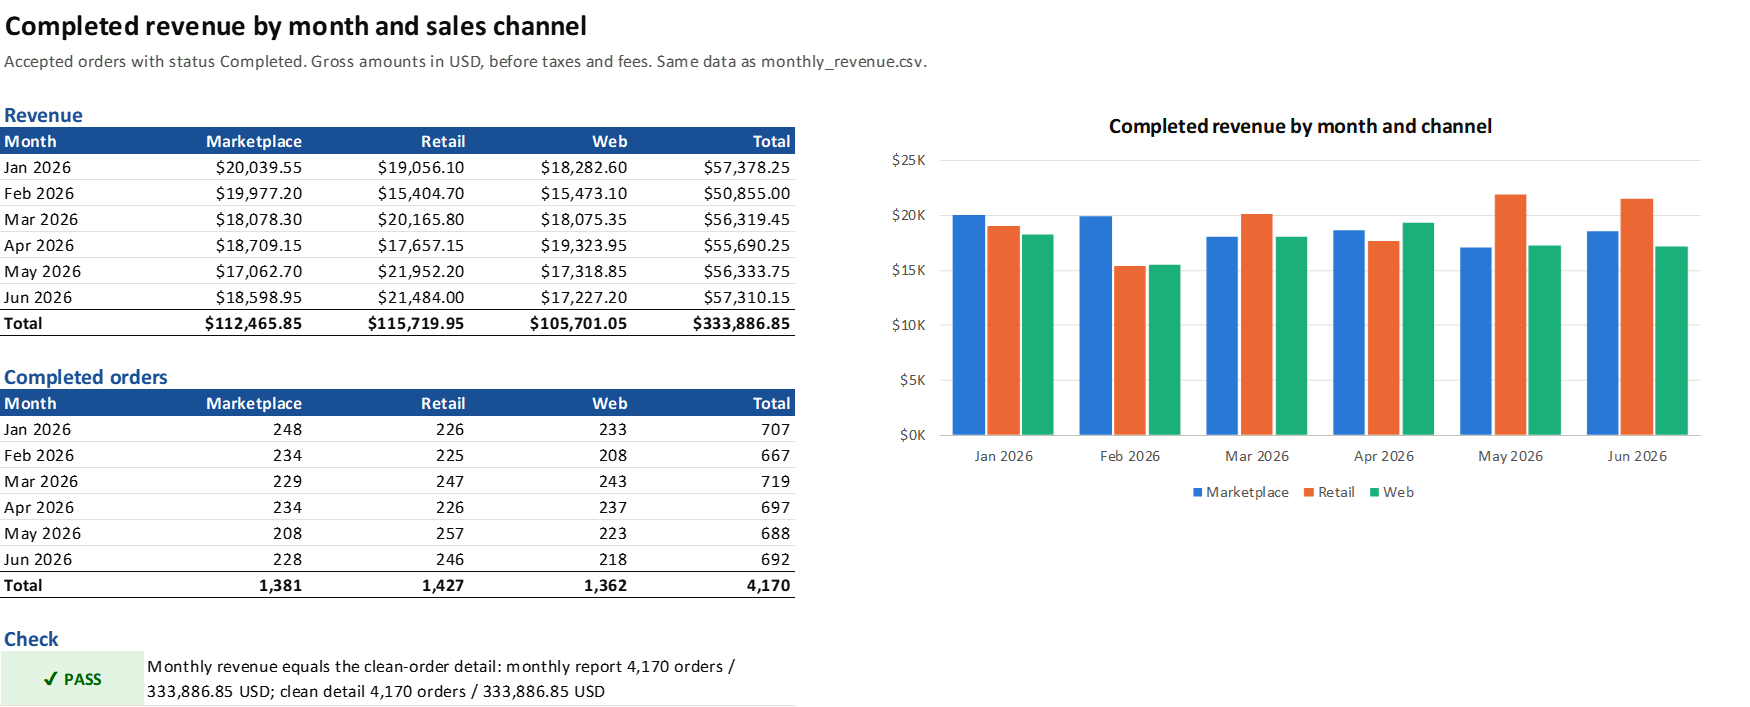
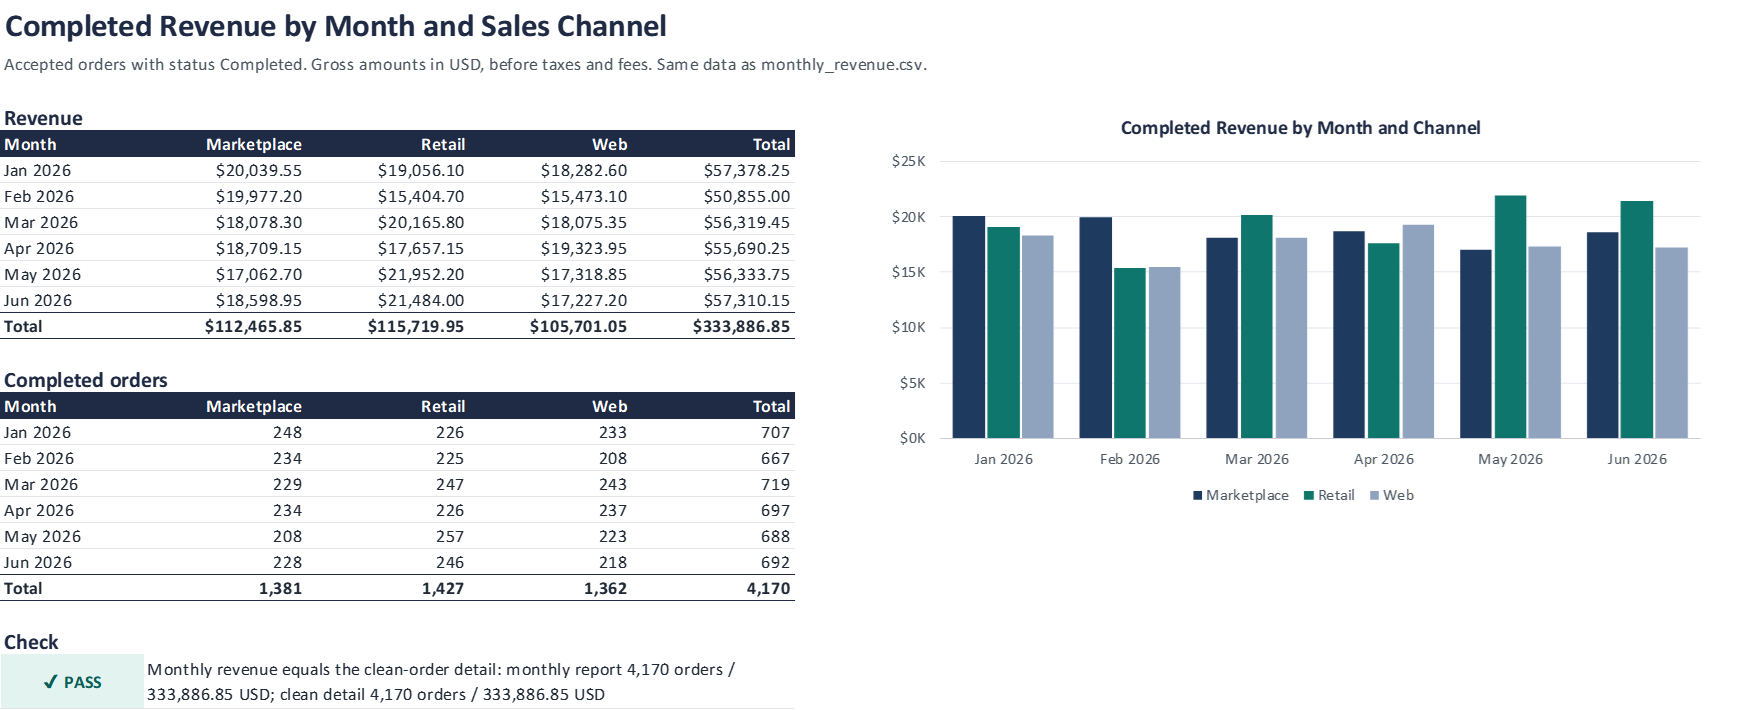
docs(assets): recapture the workbook in Excel after the dashboard redesign
The capture script now stops if Excel repairs a file, crops the dashboard
summary above the charts, and adds the Reconciliation Audit sheet. The README
shows the full dashboard first and describes the new sheet structure.

diff --git a/README.md b/README.md
@@ -4,7 +4,7 @@ Messy order exports from several sales channels in; clean, de-duplicated, reconc
 
 > **Status:** pipeline, Excel report, tests and benchmarks complete. **Independent portfolio project with synthetic data:** no real client, customers or orders are involved, and no result here describes a real business.
 
-![Excel dashboard: PASS banner, 5,020 source rows, 4,905 accepted orders, 90 rejected rows, 15 duplicates ignored, 10 quarantined rows, 4,170 completed orders, $333,886.85 completed revenue, and the six reconciliation checks](assets/dashboard-summary.png)
+![Executive dashboard generated by the pipeline and rendered by Excel: KPI cards for 5,020 source records, 4,905 accepted orders, $333,886.85 completed revenue and reconciliation status PASS; data-quality indicators for 90 rejected rows, 15 duplicates ignored and 10 quarantined rows; three reconciliation-check lines; and charts of monthly completed revenue, revenue by sales channel and data-quality issues](assets/dashboard.png)
 
 | Demo run | Day 1: three exports | Day 2: plus a late export and a reviewer's decisions |
 |---|---:|---:|
@@ -51,9 +51,9 @@ Design and decisions: [architecture](docs/architecture.md), [feasibility](docs/f
 - **Duplicate detection and reconciliation:** exact and conflicting duplicates across files and batches, row-level accounting, totals that tie back to the detail.
 - **Business rules as configuration:** statuses, channels, date formats, tolerances and duplicate policy in a reviewed file, with clear errors for mistakes.
 - **Review and approval workflow:** suggested corrections in a spreadsheet, applied only with a reviewer's decision, with a complete audit trail.
-- **Client-ready Excel reporting:** an 8-sheet workbook with a dashboard, charts, filters and highlighted exceptions, regenerated from the data on every run.
+- **Client-ready Excel reporting:** an 8-sheet workbook with a one-screen executive dashboard (KPI cards and native Excel charts), a separate reconciliation audit, and filterable detail sheets with highlighted exceptions, regenerated from the data on every run.
 - **Large and recurring files:** streaming input and on-disk staging, measured up to 1,004,621 rows; incremental runs for daily or monthly exports.
-- **Verifiable work:** 202 automated tests, CI, and benchmarks whose every figure comes from a committed result.
+- **Verifiable work:** 206 automated tests, CI, and benchmarks whose every figure comes from a committed result.
 
 ## 4. Evidence and measurable results
 
@@ -84,11 +84,11 @@ Six checks test this from independent sides rather than re-adding the counters t
 
 ### Tests
 
-`python -m pytest -q` runs 202 unit and integration tests in temporary folders. They cover normalization and validation rules, duplicates and conflicts across files and batches, malformed and wrongly encoded input, invalid configuration, incremental reruns, modified and removed files, reference-data and rule changes, correction approval, rejection and stale decisions, workbook contents and determinism, and row-level traceability. Tests compare the bytes of every business output for a full rebuild, a sequence of incremental runs and batch sizes 1, 7 and 1,000. CI runs them on Python 3.11 and 3.13 ([workflow](.github/workflows/ci.yml)).
+`python -m pytest -q` runs 206 unit and integration tests in temporary folders. They cover normalization and validation rules, duplicates and conflicts across files and batches, malformed and wrongly encoded input, invalid configuration, incremental reruns, modified and removed files, reference-data and rule changes, correction approval, rejection and stale decisions, workbook contents and determinism, and row-level traceability. Tests compare the bytes of every business output for a full rebuild, a sequence of incremental runs and batch sizes 1, 7 and 1,000. CI runs them on Python 3.11 and 3.13 ([workflow](.github/workflows/ci.yml)).
 
 ### Benchmarks
 
-Measured on one laptop (Windows 11, Intel Core i7-1370P, 32 GB, Python 3.15.2), each run in a fresh process, median of 5 runs (3 for 1M). Every run's results were checked against the generator's expected counts and revenue, and every scenario produced business outputs byte-identical to the full run. All figures: [benchmarks/results/](benchmarks/results/README.md).
+Measured on one laptop (Windows 11, Intel Core i7-1370P, 32 GB, Python 3.15.2), at commit `cc46d1f` (before the dashboard redesign, which changed only the Excel report and was not re-measured), each run in a fresh process, median of 5 runs (3 for 1M). Every run's results were checked against the generator's expected counts and revenue, and every scenario produced business outputs byte-identical to the full run. All figures: [benchmarks/results/](benchmarks/results/README.md).
 
 | Rows | Files | Full run | Rerun, nothing changed | Rerun, one file added | Peak memory | Original script |
 |---:|---:|---:|---:|---:|---:|---|
@@ -117,7 +117,7 @@ python -m pip install -r requirements-dev.txt -e .
 python -m pytest -q
 ```
 
-The test run ends with `202 passed` (on Linux `200 passed, 2 skipped`: two tests need Windows file locking or a German locale). Then run the pipeline on the three original exports:
+The test run ends with `206 passed` (on Linux `204 passed, 2 skipped`: two tests need Windows file locking or a German locale). Then run the pipeline on the three original exports:
 
 ```bash
 python -m order_quality run --input data/raw --out output
@@ -154,7 +154,7 @@ All options, exit codes and the correction workflow: [docs/reference.md](docs/re
 
 | File | What it holds |
 |---|---|
-| `order_quality_report.xlsx` | The Excel report: dashboard, monthly revenue, data quality, rejected records, duplicate review, correction log, clean orders, processing audit |
+| `order_quality_report.xlsx` | The Excel report: executive dashboard, monthly revenue, data quality summary, reconciliation audit, rejected records, duplicate review, correction log, clean orders |
 | `clean_orders.csv` | Accepted orders, standardized, each with its source file and line |
 | `rejected_rows.csv` | Rejected rows exactly as received, with reason codes |
 | `duplicates_review.csv` | Every row of a repeated order ID, its version and the fields that differ |
@@ -167,15 +167,19 @@ All options, exit codes and the correction workflow: [docs/reference.md](docs/re
 
 ## 6. Screenshots
 
-All images are captured from workbooks generated by the pipeline on the demo data (`scripts/capture-screenshots.ps1`), showing the sheet area only.
+All images are captured from workbooks generated by the pipeline on the demo data and rendered by Microsoft Excel itself (`scripts/capture-screenshots.ps1`, which also stops if Excel has to repair a file), showing the sheet area only.
 
 **The raw export as received:** mixed date formats, stray spaces, inconsistent capitalization.
 
 ![Raw export rows with dates in three formats, leading spaces and mixed-case SKUs, channels and statuses](assets/raw-export-before.png)
 
-**Executive Dashboard:** overall status, headline numbers, where every row went, the six checks, and charts of monthly revenue, revenue by channel and rejected rows by reason.
+**Executive Dashboard:** the business result on one screen: four KPI cards, three data-quality indicators, a summary of the reconciliation checks, and native Excel charts of monthly revenue, revenue by sales channel and data-quality issues. It prints on one landscape page.
 
-![Full executive dashboard with KPI tiles, outcome table, reconciliation checks and three charts](assets/dashboard.png)
+![Executive dashboard with KPI cards, data-quality indicators, reconciliation checks and three charts](assets/dashboard.png)
+
+**Reconciliation Audit:** the technical evidence kept off the dashboard: where every source row went, each of the six checks with its detail, the input files with their SHA-256 fingerprints, and the rules in force.
+
+![Reconciliation audit with the row accounting table, six passed checks, input files with hashes, and the rules and reference data](assets/reconciliation-audit.png)
 
 **Monthly Revenue:** completed revenue and order counts by month and channel, with totals and the reconciliation check.
 
@@ -207,6 +211,7 @@ Python 3.11+ (standard library: `csv`, `sqlite3`, `tomllib`, `decimal`, `hashlib
 - **One machine.** Benchmarks come from one laptop with other software running. Absolute times depend on the hardware; compare the scenarios with each other.
 - **Scalability.** Memory is bounded by the batch size and the database cache rather than by the input size; disk use grows with it (outputs and state: 51 MiB for 100,469 rows, 473 MiB for 1,004,621 rows). Every run recomputes duplicates, totals and outputs over all rows, so run time grows with the total data, not only with the new files. Excel detail sheets show at most 100,000 rows (configurable) with a note pointing to the complete CSV file.
 - **Input:** CSV files only. Save Excel sheets as "CSV UTF-8" first.
+- **Excel tables:** the workbook is written row by row so that memory stays flat, and Excel table objects cannot be written that way. Detail sheets therefore use filters, frozen and repeated headers and banded rows instead.
 - **Money:** gross revenue in one currency. No taxes, fees, currency conversion or refund netting.
 - **Corrections:** rule-based suggestions only, no AI. Anything ambiguous stays rejected for a person to decide.
 - **Possible next steps,** if a real workload needs them: Excel input, faster incremental runs for very large histories, parallel validation, a review screen instead of the review CSV. Each is assessed in [feasibility](docs/feasibility.md#deferred).

diff --git a/docs/case-studies/case-01-messy-exports-to-reconciled-report.md b/docs/case-studies/case-01-messy-exports-to-reconciled-report.md
@@ -120,7 +120,7 @@ What the client sees:
 | Results under another date locale | 576 rows rejected, $293,883.05 | Identical to the default | `test_dates_and_generator_do_not_depend_on_the_process_locale` |
 | Formula-like text in outputs | Written as a formula | Written as text | `test_formula_like_values_are_neutralized_in_every_csv`, `test_formula_like_input_is_stored_as_text` |
 | Row with an extra field | Run stops | Row rejected as `MALFORMED_ROW`, run continues | `test_rows_with_too_many_or_too_few_fields_are_rejected_not_crashing` |
-| Automated tests | 5 | 202 | `python -m pytest -q` |
+| Automated tests | 5 | 206 | `python -m pytest -q` |
 | Run time, 5,020 rows | 0.19 s | 0.96 s (0.85–1.09) | 5x slower |
 | Run time, 100,469 rows | 1.58 s | 12.4 s (12.2–14.5) | 7.8x slower |
 | Peak memory, 100,469 rows | 161 MiB | 78.1 MiB | 52% less |
@@ -134,7 +134,7 @@ The benchmark figures use the same data, machine and method for both versions: f
 - **Incremental runs save less than one might expect.** An unchanged rerun of 100,469 rows takes 8.1 s against 12.4 s for a full run, because only reading and validation are skipped. Recomputing the rest every time is what makes an incremental run provably equal to a full rebuild.
 - **Disk instead of memory.** Peak memory stays bounded (147 MiB for 1,004,621 rows), but the state database and outputs take disk space: 51.3 MiB for 100,469 rows, 473 MiB for 1,004,621 rows.
 - **Quarantine holds back valid orders.** With the default `quarantine_all` policy, both versions of a conflicting order stay out of revenue until someone decides. A client who prefers the first version can set `keep_first`; the rows are then reported as `CONFLICT_OVERRIDDEN`.
-- **More code to maintain.** 3,045 lines in `src/order_quality/` (`wc -l` at `cc46d1f`) against the original 92, offset by 202 tests and a reference that documents every option, rule and code.
+- **More code to maintain.** 3,045 lines in `src/order_quality/` (`wc -l` at `cc46d1f`) against the original 92, offset by 206 tests and a reference that documents every option, rule and code.
 - **Excel limits.** Detail sheets stop at 100,000 rows by default, with a note pointing to the complete CSV file.
 
 ## Reproducibility notes
